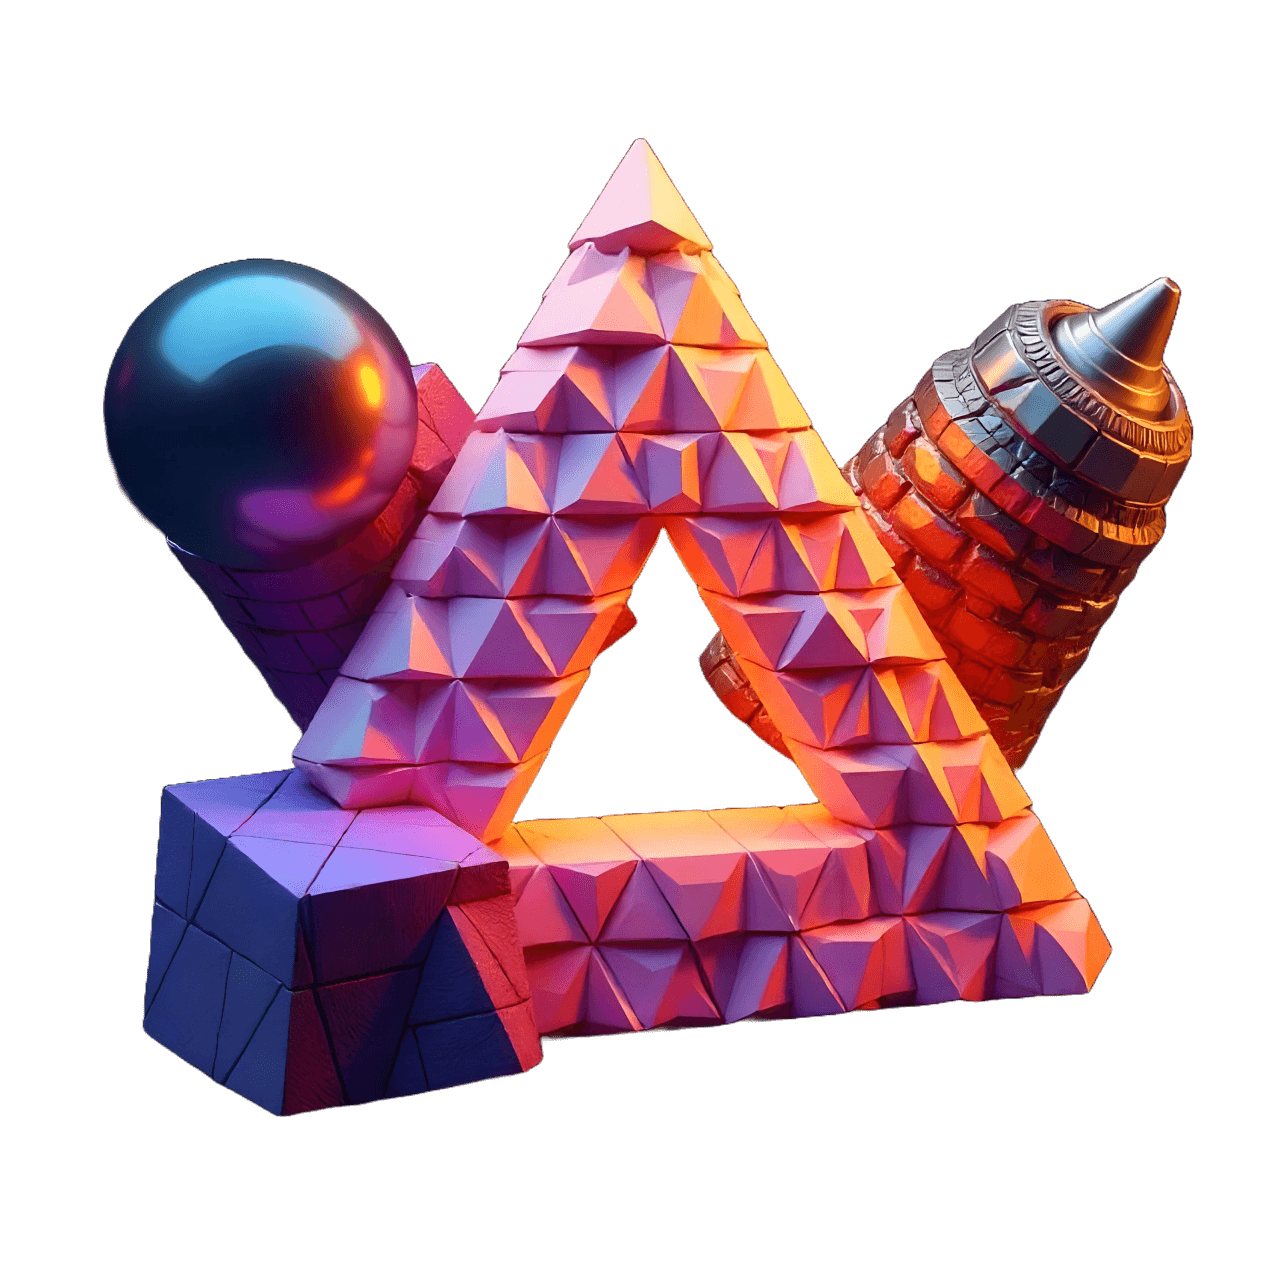
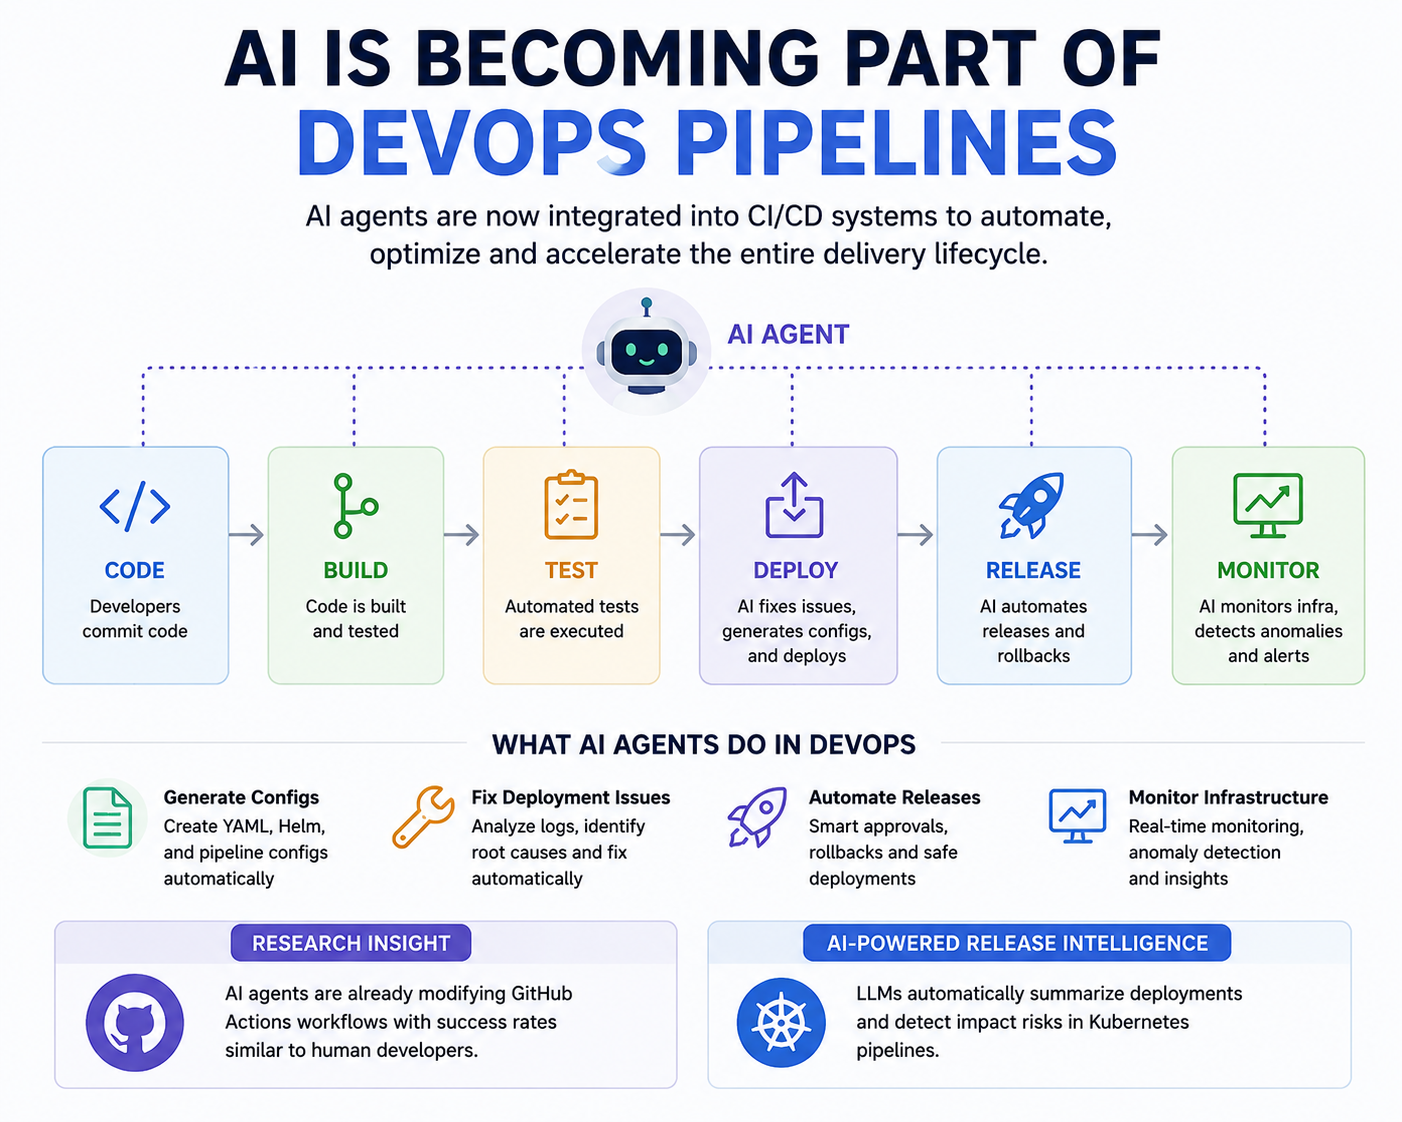
feat: update blog post dates and links in constants

diff --git a/src/constants/index.js b/src/constants/index.js
@@ -77,7 +77,7 @@ const dockApps = [
 const blogPosts = [
   {
     id: 1,
-    date: "Sep 2, 2025",
+    date: "May 14, 2026",
     title:
       "𝐏𝐥𝐚𝐭𝐟𝐨𝐫𝐦 𝐄𝐧𝐠𝐢𝐧𝐞𝐞𝐫𝐢𝐧𝐠 𝐢𝐬 𝐫𝐞𝐩𝐥𝐚𝐜𝐢𝐧𝐠 𝐭𝐫𝐚𝐝𝐢𝐭𝐢𝐨𝐧𝐚𝐥 𝐃𝐞𝐯𝐎𝐩𝐬 𝐦𝐨𝐝𝐞𝐥𝐬.",
     image: "/images/blog1.png",
@@ -85,17 +85,17 @@ const blogPosts = [
   },
   {
     id: 2,
-    date: "Aug 28, 2025",
-    title: "The Ultimate Guide to Mastering Three.js for 3D Development",
+    date: "May 13, 2026",
+    title: "AI agents are becoming active participants inside DevOps pipelines",
     image: "/images/blog2.png",
-    link: "https://jsmastery.com/blog/the-ultimate-guide-to-mastering-three-js-for-3d-development",
+    link: "https://www.linkedin.com/posts/sarangas001_devops-artificialintelligence-ciabrcd-share-7459826637921054720-nFBz?utm_source=share&utm_medium=member_desktop&rcm=ACoAAERNDEsBw4S3G8hP9gsTH02drUM1RyfuQug",
   },
   {
     id: 3,
-    date: "Aug 15, 2025",
-    title: "The Ultimate Guide to Mastering GSAP Animations",
+    date: "May 12, 2026",
+    title: "The 𝐀𝐈 𝐈𝐧𝐟𝐫𝐚𝐬𝐭𝐫𝐮𝐜𝐭𝐮𝐫𝐞.",
     image: "/images/blog3.png",
-    link: "https://jsmastery.com/blog/the-ultimate-guide-to-mastering-gsap-animations",
+    link: "https://www.linkedin.com/posts/sarangas001_artificialintelligence-nvidia-aiinfrastructure-share-7459440496109727745-x7yw?utm_source=share&utm_medium=member_desktop&rcm=ACoAAERNDEsBw4S3G8hP9gsTH02drUM1RyfuQug",
   },
 ];
 